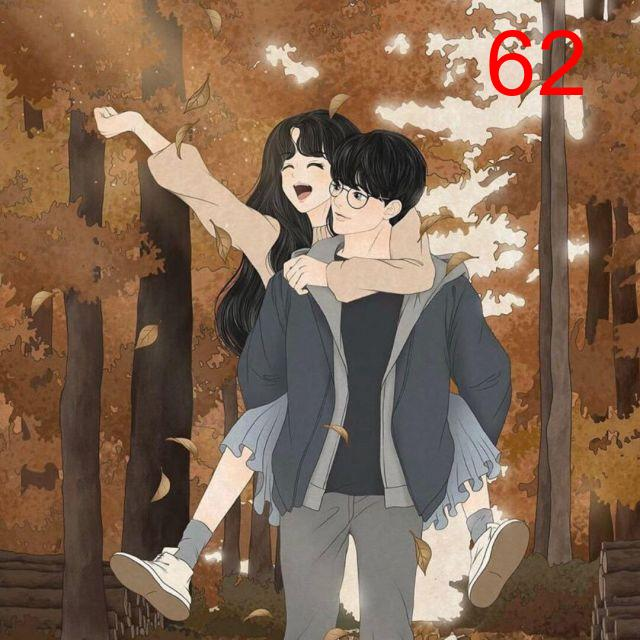
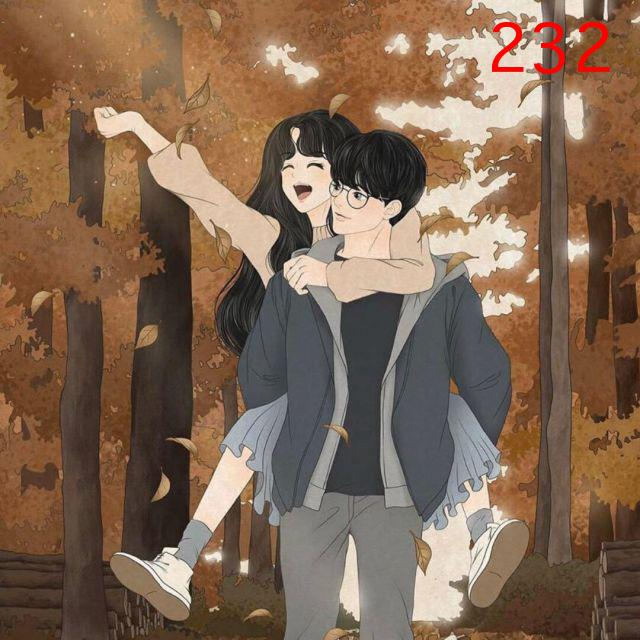
增加mac字体显示

Changed region(s): [[0.75, 0.0312, 0.9688, 0.1562]]

diff --git a/0000_头像加数字/solution_1.py b/0000_头像加数字/solution_1.py
@@ -7,7 +7,9 @@ from PIL import Image, ImageFont, ImageDraw  # 从PIL库导入所需模块
 def add_num(file,num):
     image = Image.open(headFile, 'r')
     w,h = image.size #得到图片长宽
-    font = ImageFont.truetype(font=r'C:/Windows/Fonts/arial.ttf',size=int(h/7))  #不同系统的字体位置视情况而定
+    #font = ImageFont.truetype(font=r'C:/Windows/Fonts/arial.ttf',size=int(h/7))  #不同系统的字体位置视情况而定
+
+    font = ImageFont.truetype(font=r'/System/Library/Fonts/Apple Symbols.ttf',size=int(h/7))   #mac字体
     ImageDraw.Draw(image).text((w*0.76,h*0.02), num ,font = font, fill = 'red')
 
     image.show() #展示绘制结果
